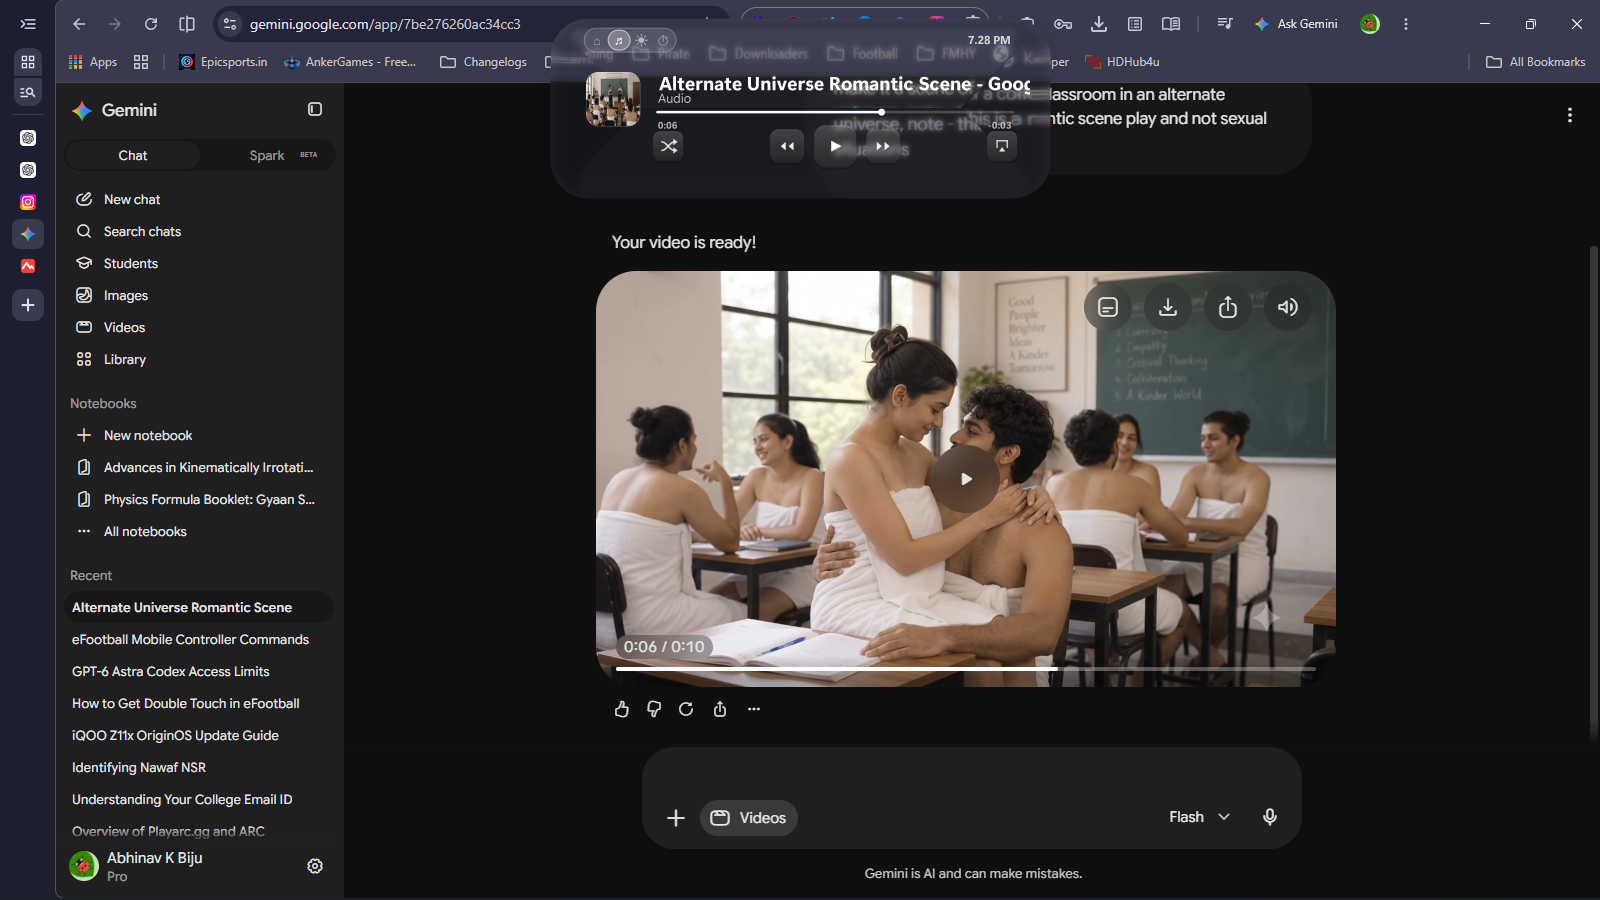
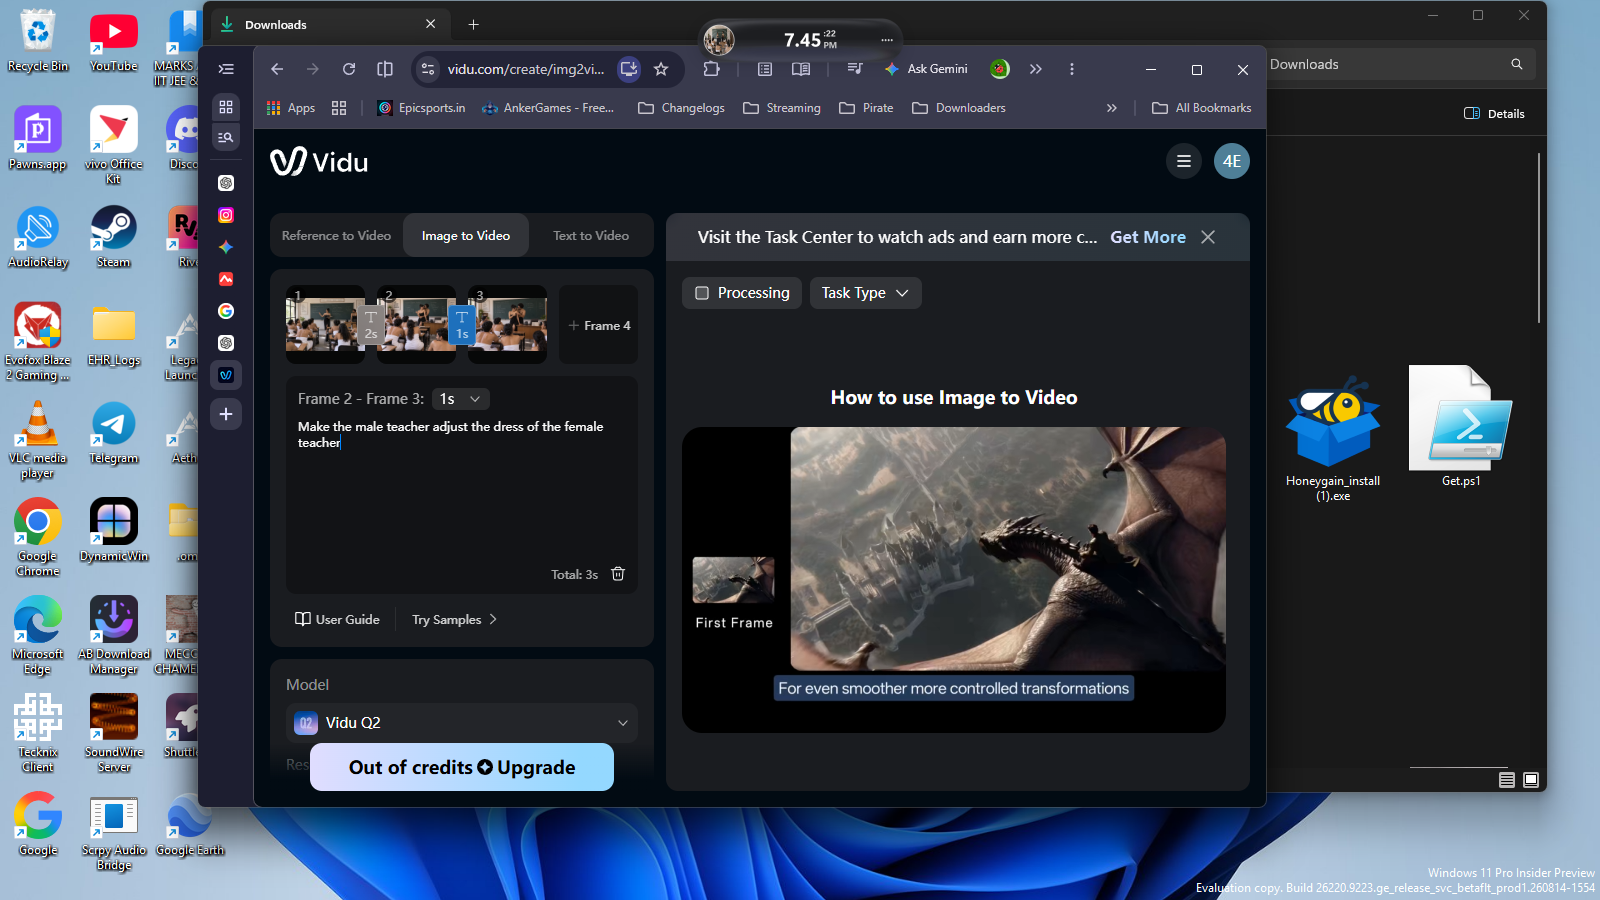
Refine liquid glass optics: symmetrical squircle distortion with smooth C1 continuity and subtle light

diff --git a/OverlayForm.cs b/OverlayForm.cs
@@ -3143,63 +3143,52 @@ internal sealed class OverlayForm : Form
                         continue;
                     }
 
-                    // Continuous 2D surface distance gradient (pointing outward)
-                    double gx, gy;
-                    if (outsideDist > 1e-4)
+                    // Smooth, continuous C1 squircle dome model (Zero-crease, zero-triangle physical optics)
+                    double hw = Math.Max(1.0, geom.HalfWidth);
+                    double hh = Math.Max(1.0, geom.HalfHeight);
+                    double ux = px / hw;
+                    double uy = py / hh;
+                    double ux2 = ux * ux;
+                    double uy2 = uy * uy;
+                    double ux4 = ux2 * ux2;
+                    double uy4 = uy2 * uy2;
+
+                    // Apple squircle radial coordinate rNorm in [0, 1] with perfectly smooth contours
+                    double rNorm = Math.Clamp(Math.Pow(ux4 + uy4, 0.25), 0.0, 1.0);
+                    double r2 = rNorm * rNorm;
+                    double r4 = r2 * r2;
+
+                    // Outward surface gradient
+                    double vx = (ux2 * ux) / hw;
+                    double vy = (uy2 * uy) / hh;
+                    double vLen = Math.Sqrt(vx * vx + vy * vy);
+                    double gx = 0.0, gy = 0.0;
+                    if (vLen > 1e-7)
                     {
-                        gx = (outsideX / outsideDist) * Math.Sign(px);
-                        gy = (outsideY / outsideDist) * Math.Sign(py);
-                    }
-                    else
-                    {
-                        double signX = Math.Sign(px);
-                        double signY = Math.Sign(py);
-                        double diff = qx - qy;
-                        double blendW = Math.Clamp(diff * 0.25 + 0.5, 0.0, 1.0);
-                        blendW = blendW * blendW * (3.0 - 2.0 * blendW);
-                        gx = signX * blendW;
-                        gy = signY * (1.0 - blendW);
-                        double gLen = Math.Sqrt(gx * gx + gy * gy);
-                        if (gLen > 1e-4)
-                        {
-                            gx /= gLen;
-                            gy /= gLen;
-                        }
+                        gx = vx / vLen;
+                        gy = vy / vLen;
                     }
 
-                    // Two-tier Liquid Glass Profile: high-intensity edge meniscus decaying towards center, but non-zero baseline in center
-                    double edgeDist = Math.Max(0.0, -sdf);
-                    double maxDist = Math.Max(1.0, geom.Radius);
-
-                    // Body factor (broad scale across entire pill)
-                    double xi = Math.Clamp(edgeDist / maxDist, 0.0, 1.0);
-                    double fBody = 1.0 - xi; // 1.0 at edge, 0.0 at spine / center
-
-                    // Rim meniscus factor (focused high-intensity punch within outer 18px)
-                    double rimWidth = Math.Min(18.0, maxDist * 0.75);
-                    double normRim = Math.Clamp(edgeDist / Math.Max(1.0, rimWidth), 0.0, 1.0);
-                    double uRim = 1.0 - normRim;
-                    double fRim = uRim * uRim * (3.0 - 2.0 * uRim); // Hermite curve
-
-                    // Composite Intensity Factor K: peaks at 1.0 at edge, falls off toward center, but stays at 0.28 baseline
-                    double k = 0.28 + 0.32 * fBody + 0.40 * fRim;
-
-                    // Physical surface normal & slope proportional to K
-                    double sinTheta = Math.Min(0.92, 0.20 + 0.72 * k);
+                    // Physical surface slope sinTheta: zero at center, smoothly steepening to 0.90 at outer edge
+                    double slopeFactor = 0.30 * r2 + 0.70 * r4;
+                    double sinTheta = 0.90 * slopeFactor;
                     double nz = Math.Sqrt(Math.Max(0.01, 1.0 - sinTheta * sinTheta));
                     double nx = gx * sinTheta;
                     double ny = gy * sinTheta;
 
-                    // Pronounced Light Bending: high intensity at edges, smoothly decreasing toward center, non-zero in center
-                    double refractMag = 18.0 * k; // 18.0px at edge, decreasing to 5.0px in center
-                    double magShiftX = px * (0.040 + 0.035 * k);
-                    double magShiftY = py * (0.040 + 0.035 * k);
+                    // Continuous intensity factor: non-zero baseline in center (0.28), smooth peak at edges (1.0)
+                    double k = 0.28 + 0.72 * slopeFactor;
 
-                    double baseSx = Math.Clamp(x - gx * refractMag - magShiftX, 0.0, SurfaceWidth - 2.0);
-                    double baseSy = Math.Clamp(y - gy * refractMag - magShiftY, 0.0, SurfaceHeight - 2.0);
+                    // Symmetrical physical refraction displacement: vanishes at center, smoothly peaks at edges
+                    double refractMag = 16.0;
+                    double magShiftX = px * (0.040 + 0.030 * slopeFactor);
+                    double magShiftY = py * (0.040 + 0.030 * slopeFactor);
 
-                    // Chromatic Micro-Dispersion: sharp prism fringe at edges (2.0px), gentle shimmer in center (0.56px)
-                    double disp = 2.0 * k;
+                    double baseSx = Math.Clamp(x - nx * refractMag - magShiftX, 0.0, SurfaceWidth - 2.0);
+                    double baseSy = Math.Clamp(y - ny * refractMag - magShiftY, 0.0, SurfaceHeight - 2.0);
+
+                    // Chromatic Micro-Dispersion: sharp prism fringe at edges (1.8px), zero at center
+                    double disp = 1.8 * slopeFactor;
 
                     int rawR, rawG, rawB;
                     if (disp > 0.04)
@@ -3327,22 +3316,22 @@ internal sealed class OverlayForm : Form
                     int trG = (int)(rawG * (1.0 - diffusionMix) + blurG * diffusionMix);
                     int trB = (int)(rawB * (1.0 - diffusionMix) + blurB * diffusionMix);
 
-                    // Liquid glass smoky tint: 75% transmission of bent/blurred scene + 25% obsidian glass body
-                    int rGlass = (trR * 192 + 36 * 64) >> 8;
-                    int gGlass = (trG * 192 + 40 * 64) >> 8;
-                    int bGlass = (trB * 192 + 52 * 64) >> 8;
+                    // Liquid glass elegant smoked transmission: 78% transmission + refined obsidian body
+                    int rGlass = (trR * 200 + 40 * 56) >> 8;
+                    int gGlass = (trG * 200 + 44 * 56) >> 8;
+                    int bGlass = (trB * 200 + 56 * 56) >> 8;
 
                     // Specular Highlights & 3D Glass Illumination: sharpest at edges, tapering smoothly inward
                     double specKey = 0.0;
                     double specFill = 0.0;
 
-                    // Key light highlight along upper surface
+                    // Key light highlight along upper surface (subtle gleaming crystal reflection)
                     double ndoth1 = Math.Max(0.0, nx * H1x + ny * H1y + nz * H1z);
                     if (ndoth1 > H1z)
                     {
                         double tilt1 = (ndoth1 - H1z) * InvOneMinusH1z;
                         double t2 = tilt1 * tilt1;
-                        specKey = (t2 * t2) * (12.0 + 20.0 * k);
+                        specKey = (t2 * t2) * (18.0 + 32.0 * k);
                     }
 
                     // Ambient fill bounce along bottom surface
@@ -3350,17 +3339,26 @@ internal sealed class OverlayForm : Form
                     if (ndoth2 > H2z)
                     {
                         double tilt2 = (ndoth2 - H2z) * InvOneMinusH2z;
-                        specFill = (tilt2 * tilt2) * (4.0 + 8.0 * k);
+                        specFill = (tilt2 * tilt2) * (6.0 + 12.0 * k);
                     }
 
                     // Fresnel grazing rim sheen
                     double oneMinusNz = 1.0 - nz;
-                    double fresnelGlow = oneMinusNz * oneMinusNz * (6.0 + 16.0 * k);
+                    double fresnelGlow = oneMinusNz * oneMinusNz * (10.0 + 24.0 * k);
 
-                    // Composite liquid glass optics
-                    int finR = Math.Clamp(rGlass + (int)specKey + (int)specFill + (int)fresnelGlow, 0, 255);
-                    int finG = Math.Clamp(gGlass + (int)specKey + (int)specFill + (int)fresnelGlow, 0, 255);
-                    int finB = Math.Clamp(bGlass + (int)(specKey * 1.04) + (int)specFill + (int)(fresnelGlow * 1.08), 0, 255);
+                    // Gentle, tasteful upper meniscus edge light (subtle light presence)
+                    double topLight = 0.0;
+                    if (uy < 0.0 && rNorm > 0.65)
+                    {
+                        double topNorm = (-uy);
+                        double edgeCrest = Math.Pow((rNorm - 0.65) / 0.35, 2.0);
+                        topLight = topNorm * edgeCrest * 22.0;
+                    }
+
+                    // Composite liquid glass optics: balanced and tasteful
+                    int finR = Math.Clamp(rGlass + (int)specKey + (int)specFill + (int)fresnelGlow + (int)topLight, 0, 255);
+                    int finG = Math.Clamp(gGlass + (int)specKey + (int)specFill + (int)fresnelGlow + (int)topLight, 0, 255);
+                    int finB = Math.Clamp(bGlass + (int)(specKey * 1.04) + (int)specFill + (int)(fresnelGlow * 1.08) + (int)(topLight * 1.04), 0, 255);
 
                     // Composite over contact/ambient shadow
                     byte finalA = (shadowA > 0 && a < 255)
